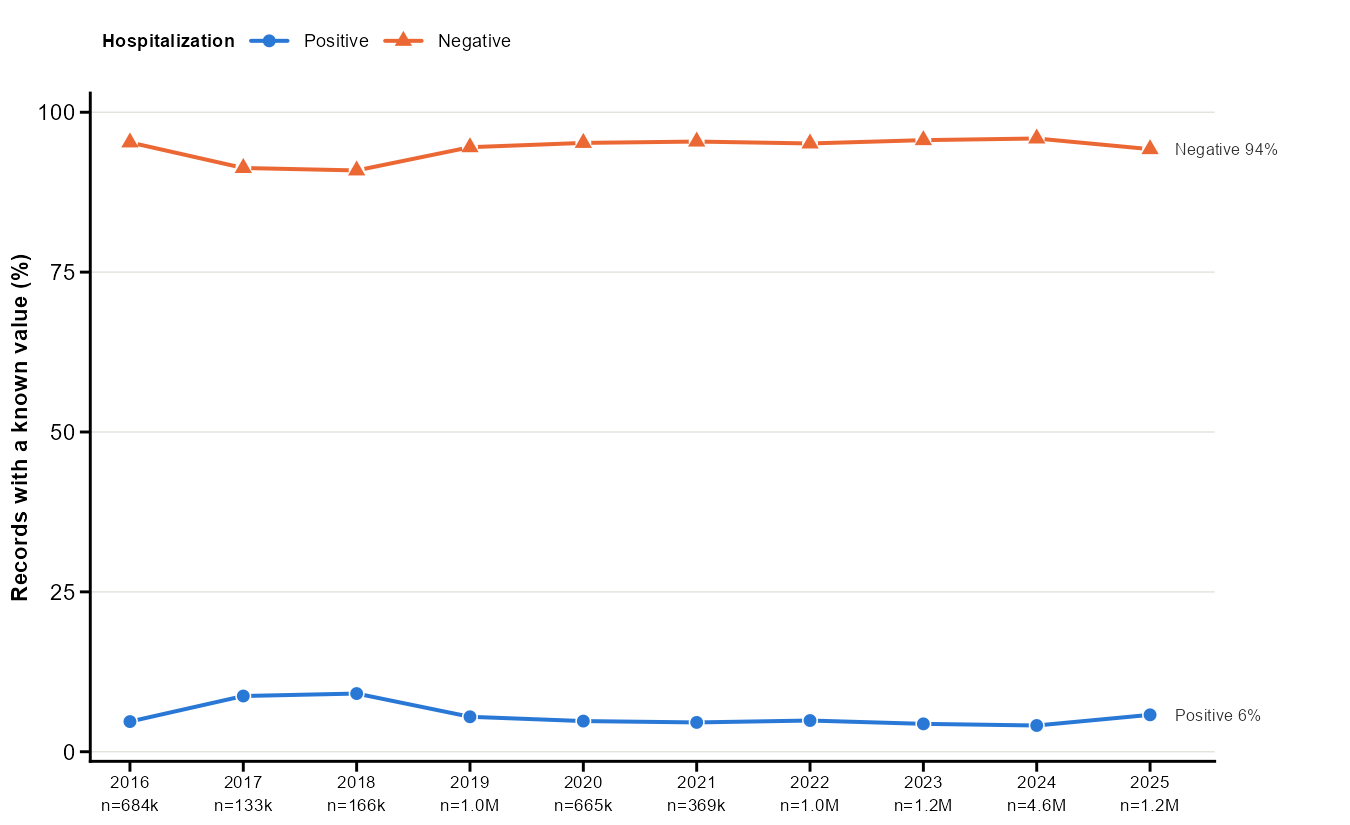
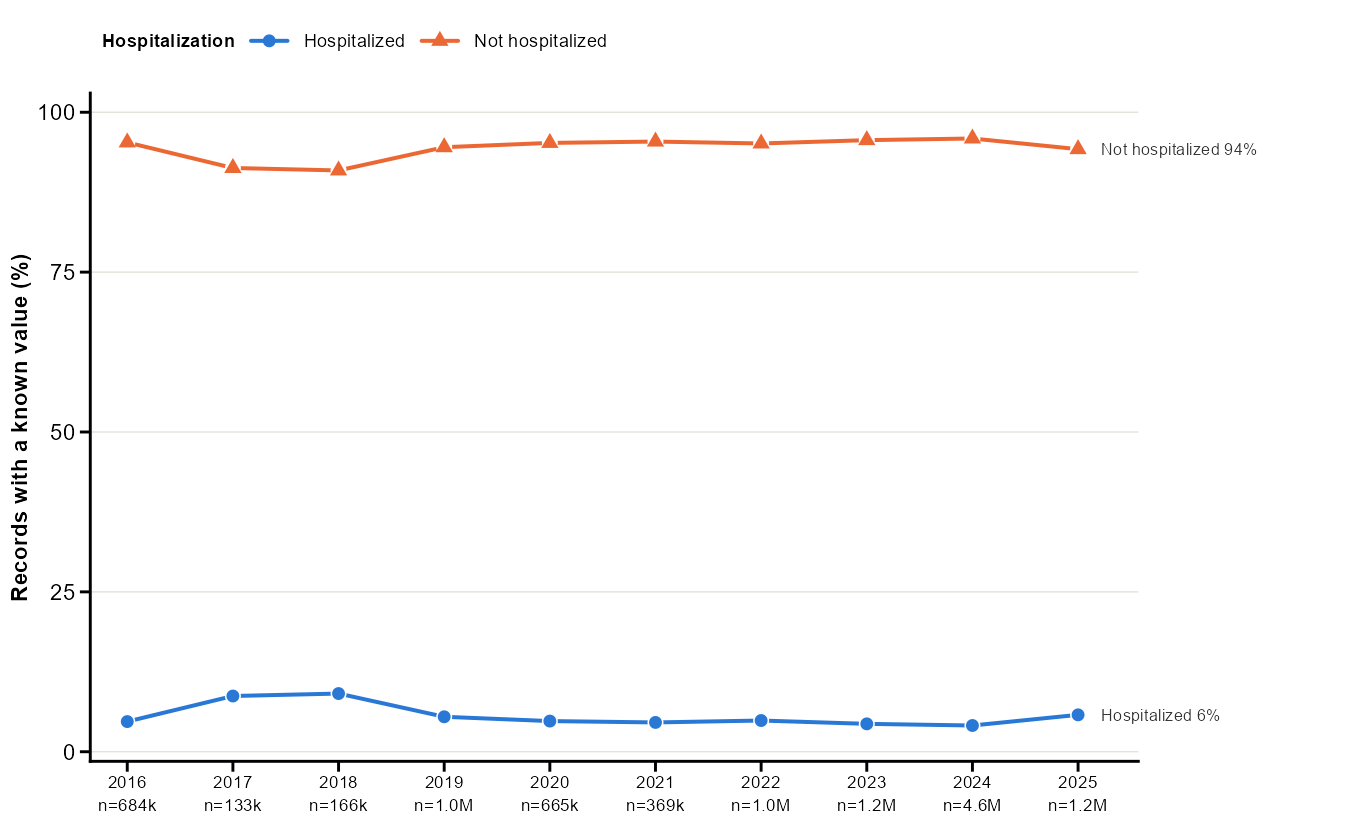
Add license, citation and figure captions; clearer clinical labels
Statistical outputs unchanged (value fingerprints identical to baseline,
build_source_data checks pass).

- LICENSE (MIT) and CITATION.cff; README "License and data" section: code
  under MIT, derived data from Brazilian federal open data (cite sources).
- docs/FIGURE_CAPTIONS.md: draft captions for Figures 1-8, S1, S2 and GLM
  figures 1-5 built from the generated caption values, plus a methods and
  limitations paragraph (exclusion of ignored/blank records; serotype on
  0.2-3.0% of notifications; ELISA/IgM 2025 98% missing; Espirito Santo
  2021 chikungunya/Zika missing from SINAN although the state reported
  cases through e-SUS VS; clinical figures end in 2025; 2026 annualised;
  pooled S1 classes). Linked from the README.
- graphpad_pipeline.R: plot labels Hospitalized / Not hospitalized for the
  hospitalization table (table-specific labels) and Not pregnant; source
  data keeps the raw GraphPad names.
- utils.R write_xlsx_sheets(): keep the existing workbook when every cell
  is unchanged (writexl stamps a creation time, so reruns used to rewrite
  identical workbooks).
- docs/RESULTS_SUMMARY.md: note that it documents the original version.

diff --git a/docs/FIGURE_CAPTIONS.md b/docs/FIGURE_CAPTIONS.md
@@ -1,0 +1,159 @@
+# Figure captions (draft)
+
+Draft captions for the figures in `figures/`, written to be pasted into the manuscript. Every
+number comes from the generated caption material (run of 2026-10-13, SINAN release of
+2026-10-06): `outputs/figure_caption_values.csv`, `outputs/figure_exclusions.csv` and
+`outputs/figure_exclusions_captions.txt`. If the pipeline is rerun on newer data, update the
+numbers from those files. The numbering of supplementary figures (S1, S2) is a placeholder.
+
+Abbreviations used throughout: UF, federative unit (state); IRR, incidence rate ratio; CI,
+confidence interval; FE, fixed effects; LISA, local indicator of spatial association.
+
+---
+
+## Main figures
+
+**Figure 1. Annual and monthly incidence of dengue, chikungunya and Zika in Brazil, 2016–2026.**
+(A) Annual incidence per 100,000 inhabitants for Brazil (solid line, population-weighted mean of
+the 27 UFs) and for each macro-region (dashed lines). (B) Distribution of monthly incidence per
+100,000 inhabitants across UF-months, by macro-region; boxes show the median and interquartile
+range, whiskers 1.5 × IQR; the y axis, shared by the three panels, is cropped at 1.05 × the
+largest 99th percentile of the three diseases. 2026 covers
+January–September and annual values are annualised from the reported months.
+
+**Figure 2. Temporal trends in annual incidence by state, 2016–2026.**
+(A) Mann-Kendall Kendall's τ for each UF; coloured bars indicate p < 0.05 (dengue 2/27,
+chikungunya 3/27, Zika 6/27 states). (B) Sen's slope of annual incidence (cases per 100,000
+per year) by UF and disease.
+
+**Figure 3. Correlation between monthly incidence and climate.**
+(A) Mean Spearman's ρ across the 27 UFs between monthly incidence and mean temperature or rainfall
+at lags of 0, 1 and 2 months; * marks combinations in which at least 50% of states had p < 0.05.
+(B) Mean ρ by macro-region and lag for temperature and rainfall. Climate: INMET automatic
+stations aggregated to UF-month.
+
+**Figure 4. Spatial autocorrelation of mean annual incidence.**
+Moran scatterplots of standardised population-weighted mean annual incidence (z) against its
+spatial lag (Wz), with the fitted line, using row-standardised k-nearest-neighbour weights (k = 5).
+Global Moran's I (999 permutations): dengue 0.516 (p = 0.001), chikungunya 0.004 (p = 0.285),
+Zika −0.006 (p = 0.326).
+
+**Figure 5. Age and sex of notified cases.**
+(A) Distribution of patient age by year. Violins are reconstructed from age-band counts (ages
+drawn uniformly within each band); inner lines mark the quartiles and the white dot the median;
+n = cases with known age. (B) Percentage of male and female cases by year. Percentages and age
+distributions are calculated on records with a known value; records with ignored/blank values
+were excluded: A, dengue n = 18,536 of 16,317,590 (0.1%); chikungunya n = 214 of 1,994,049
+(<0.1%); Zika n = 36 of 545,864 (<0.1%); B, dengue n = 21,784 of 16,317,995 (0.1%); chikungunya
+n = 2,275 of 1,994,100 (0.1%); Zika n = 467 of 546,516 (<0.1%). Dengue and Zika 2016–2025,
+chikungunya 2017–2025.
+
+**Figure 6. Mean annual incidence of dengue, chikungunya and Zika by state, 2016–2026.**
+One symbol per UF and disease (circle, dengue; triangle, chikungunya; square, Zika), filled by
+the natural-breaks (Jenks, k = 5) class of the population-weighted mean annual incidence, computed
+separately for each disease. Class bounds (cases per 100,000; class 1 → 5): dengue 71–129,
+129–397, 397–762, 762–1,212, 1,212–1,782; chikungunya 6–67, 67–136, 136–197, 197–325,
+325–498; Zika 2–20, 20–42, 42–72, 72–98, 98–137. Symbols for RN, PB, PE, AL, SE, ES and RJ are
+drawn offshore, with a leader line to the state. Global Moran's I: dengue 0.516 (p = 0.001),
+chikungunya 0.004 (p = 0.285), Zika −0.006 (p = 0.326).
+
+**Figure 7. Laboratory testing, hospitalisation and serotype of dengue cases, 2016–2025.**
+Percentage of records with a known value in each category by year: (A) ELISA result, (B) IgM
+result, (C) hospitalisation, (D) serotype; the number of records with a known value is shown
+under each year. Records with ignored/blank values were excluded: A, ELISA n = 7,280,459 of
+16,317,995 (44.6%); B, IgM n = 7,794,458 of 16,317,995 (47.8%); C, hospitalisation
+n = 5,145,984 of 16,317,995 (31.5%); D, serotype n = 15,982,072 of 16,317,995 (97.9%).
+Serotype percentages describe typed cases only (547–189,618 per year). In 2025, 98% of ELISA and
+IgM records were ignored/blank.
+
+**Figure 8. Classification, confirmation criterion, outcome and pregnancy status of chikungunya
+and Zika cases.**
+Percentage of records with a known value in each category by year, with the number of such
+records under each year. (A) Chikungunya, 2017–2025: final classification, confirmation
+criterion and outcome. (B) Zika, 2016–2025: final classification, confirmation criterion,
+outcome and pregnancy status. Records with ignored/blank values were excluded: A, classification
+n = 214,989 of 1,994,043 (10.8%); criterion n = 201,970 of 1,994,102 (10.1%); outcome
+n = 435,648 of 1,994,102 (21.9%); B, classification n = 12,177 of 545,864 (2.2%); criterion
+n = 115,826 of 545,864 (21.2%); outcome n = 174,498 of 545,864 (32.0%); pregnancy status
+n = 60,524 of 546,516 (11.1%).
+
+---
+
+## Supplementary figures
+
+**Supplementary Figure S1. Annual incidence of dengue, chikungunya and Zika by state, 2016–2026
+(one map per year).**
+One symbol per UF and disease (circle, dengue; triangle, chikungunya; square, Zika), filled by
+the natural-breaks (Jenks, k = 5) class of annual incidence, computed per disease over all
+state-years so that each colour denotes the same incidence range in every year. Class bounds
+(cases per 100,000; class 1 → 5): dengue 1–517, 517–1,363, 1,363–2,868, 2,868–5,477,
+5,477–9,354; chikungunya 2–96, 96–319, 319–731, 731–1,199, 1,199–1,726; Zika 0–32, 32–106,
+106–256, 256–490, 490–784. 2026 is annualised from January–September. No symbol is drawn for
+Espírito Santo in 2021 for chikungunya and Zika: the national SINAN files contain no records
+for that state-year (see Limitations). Files: `FigureS1_2016.png` … `FigureS1_2026.png`;
+`FigureS1_overview.png` shows all years.
+
+**Supplementary Figure S2. Local spatial clusters and temporal trends by state.**
+(A) LISA category of the population-weighted mean annual incidence (k-nearest-neighbour
+weights, k = 5; 999 permutations; p < 0.05): HH and LL, high-high and low-low clusters; HL and
+LH, spatial outliers; white, not significant (dengue HH 8, LL 4, HL 1, LH 1; chikungunya HH 1,
+HL 1, LH 1; Zika HH 1, LL 1, LH 1). (B) Mann-Kendall trend of annual incidence, 2016–2026
+(p < 0.05): increasing (dengue 2 states, chikungunya 3), decreasing (Zika 6); white, no
+significant trend. Symbols as in Figure 6.
+
+**GLM Figure 1. Climate effects from pooled models with state and month fixed effects.**
+IRR per +1 °C of mean temperature and per +1 mm of rainfall, by disease and model family
+(Poisson, quasi-Poisson, negative binomial), with 95% CI (cluster-robust standard errors for the
+Poisson and negative binomial models); * p < 0.05.
+
+**GLM Figure 2. Per-state climate effects (negative binomial models).**
+IRR per +1 °C of mean temperature and per +1 mm of rainfall for each UF and disease, from
+per-state negative binomial models with month fixed effects and HAC standard errors; colour =
+log₂(IRR) (red, positive; blue, negative); * p < 0.05.
+
+**GLM Figure 3. Lag profile of climate effects.**
+Median IRR across states (line) and interquartile range (shaded) for temperature and rainfall at
+lags of 0, 1 and 2 months, from per-state negative binomial models with lagged climate predictors
+and month fixed effects.
+
+**GLM Figure 4. Model fit comparison.**
+Median AIC across states (log scale; lower is better) by model family and specification
+(per-state, lagged, pooled fixed effects). The negative binomial models fit the overdispersed
+monthly counts far better than the Poisson models.
+
+**GLM Figure 5. Statistically significant per-state climate effects.**
+Forest plot of log₂(IRR) with 95% CI for the state–disease combinations with p < 0.05 in the
+per-state negative binomial models, for temperature and rainfall (right of zero, positive
+association; left, negative).
+
+---
+
+## Methods and limitations (text for the manuscript)
+
+**Missing values.** In the clinical figures (Figures 5, 7 and 8), percentages and distributions
+were calculated on records with a known value. Records coded as ignored or blank in SINAN
+(`Ign/Blank`; for sex, `Ign` and `Blank`; for the state of notification, `Ign/exterior`) were
+excluded from numerators and denominators. Recorded answers such as "not performed", "not
+applicable" or "inconclusive" were kept as categories. The proportion excluded ranged from
+<0.1% (age, sex) to 97.9% (dengue serotype) of notifications; the number and percentage excluded
+for each figure and year are given in `outputs/figure_exclusions.csv`.
+
+**Limitations of the data.**
+- Dengue serotype was recorded for only 0.2–3.0% of notifications per year (547–189,618 typed cases),
+  so Figure 7D describes typed cases only, which may not represent all cases.
+- In 2025, 98% of dengue ELISA and IgM records were ignored/blank, compared with 35–53% (ELISA)
+  and 34–49% (IgM) in 2016–2024, which suggests a change in how test results were recorded. The 2025 proportions
+  in Figures 7A–B rest on about 34,000 records.
+- The national SINAN files contain no chikungunya or Zika records for Espírito Santo in 2021,
+  although the state reported 2,901 chikungunya and 872 Zika cases for January–October 2021
+  through its own notification system (e-SUS VS)
+  ([Governo do Espírito Santo, 2021](https://www.es.gov.br/Noticia/espirito-santo-registra-mais-de-2-mil-casos-de-chikungunya-em-2021)).
+  That state-year is therefore missing, not zero. It is shown without a symbol in Supplementary
+  Figure S1 and is absent from the annual series, so the mean incidence and trend of these two
+  diseases in Espírito Santo use the other ten years.
+- The clinical and demographic figures (5, 7, 8) use the GraphPad tables, which end in 2025 (and
+  start in 2017 for chikungunya); all other analyses run to September 2026.
+- 2026 covers January–September (SINAN release of 2026-10-06); annual values for 2026 are
+  annualised from the reported months.
+- In Supplementary Figure S1, classes are pooled over all years so that colours are comparable
+  across years; years with low incidence therefore fall mostly in class 1.

diff --git a/README.md b/README.md
@@ -133,6 +133,16 @@ Figures carry no in-plot titles. Text for the captions is generated with them:
   values left out of each clinical figure (n and %), plus ready-to-use caption sentences;
 - `outputs/figure_exclusions_state_years.csv`: state-years without SINAN records.
 
+Draft captions for every figure, with a methods/limitations paragraph, are in
+[`docs/FIGURE_CAPTIONS.md`](docs/FIGURE_CAPTIONS.md).
+
+## License and data
+The code is released under the [MIT License](LICENSE); see [`CITATION.cff`](CITATION.cff) to cite it.
+The tables in `db/` and `clinical_tables/`, and the results and figures, are derived from Brazilian
+federal open data (SINAN/OpenDataSUS, INMET, IBGE), published under the Política de Dados Abertos
+(Decreto 8.777/2016). Cite those publishers and the access date (see
+[`docs/DATA_SOURCES.md`](docs/DATA_SOURCES.md)).
+
 ---
 
 ## How the data was built (provenance & definitions)

diff --git a/docs/RESULTS_SUMMARY.md b/docs/RESULTS_SUMMARY.md
@@ -1,5 +1,9 @@
 # Arbovirus Surveillance in Brazil — Results Summary (Normalized DB pipeline)
 
+> **Historical document.** This summary describes the original 2016–2025 analysis; its figure file
+> names (e.g. `Figure6a`–`Figure6d`) refer to that version. For the current figures see the
+> "Figures" section of the [README](../README.md) and [`FIGURE_CAPTIONS.md`](FIGURE_CAPTIONS.md).
+
 **Run date:** 2026-10-01
 **Data window:** 2016–2025 (CHIKV starts 2017; ZIKV and DENV start 2016)
 **Spatial unit:** 27 Brazilian federative units
